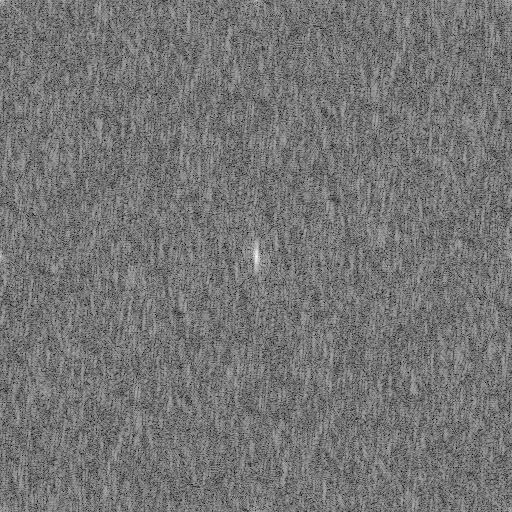
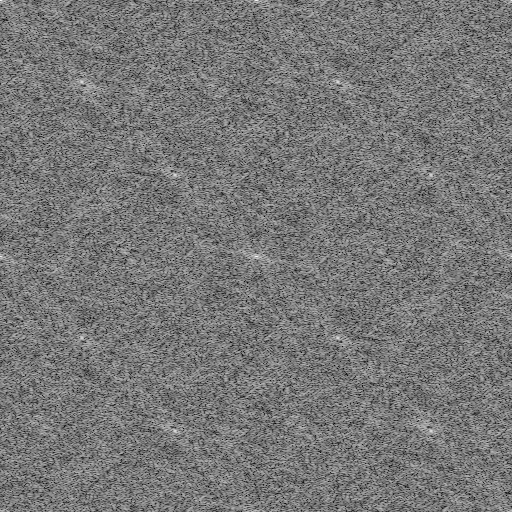
modified:   pics/results/non-uniform_noise/ens_mean.png 	modified:   pics/results/non-uniform_noise/m_high.png 	modified:   pics/results/non-uniform_noise/m_low.png 	modified:   pics/results/non-uniform_noise/n'_high.png 	modified:   pics/results/non-uniform_noise/n'_low.png 	modified:   pics/result

diff --git a/src/test.cpp b/src/test.cpp
@@ -87,7 +87,7 @@ std::vector<cv::Mat> CreateEnsemble(const cv::Mat& image, const int& amount) {
 };
 
 int main(int argc, char* argv[]) {
-  cv::Mat image = cv::imread("grid.png", cv::IMREAD_GRAYSCALE);
+  cv::Mat image = cv::imread("cat.png", cv::IMREAD_GRAYSCALE);
   cv::Mat image_32f = cv::Mat::zeros(image.size(), CV_32FC1);
   image.convertTo(image_32f, CV_32FC1);
 
